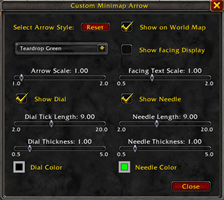
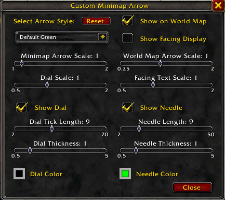
feat: update version to 2.1.0, enhance world map support, and improve configuration options

diff --git a/README.md b/README.md
@@ -19,15 +19,14 @@ Take full control of your minimap arrow! Stylish designs, custom vector dial & n
 ## Features
 - Always-On-Top Arrow Rendering – High-priority overlay layering and frame depth ensure your custom minimap arrow always appears above other minimap elements and addons.
 - Smart Dungeon & Rotate Minimap Support – Automatically adapts to the “Rotate Minimap” setting. In dungeons the arrow stays correctly oriented and scaled; outdoors it falls back to the engine’s native behavior when needed.
-- Fully Customizable Vector Dial & Needle – Programmatically drawn 36-tick dial (major ticks every 30°) and a dynamic rotating needle that tracks your heading in real time. Both scale and move with the minimap and can be shown or hidden independently.
-- Precise Scale Controls – Independently adjust the size of the minimap arrow and the facing-text display.
-- High-Resolution Arrow Art – All arrow textures are now 128×128. The default-style arrows are high-resolution variations of WoW: Forever’s default minimap arrow, recreated as addon art.
-- Custom Arrow Styles – Choose from stylized designs, high-visibility colors, and Okabe-Ito palette colorblind-safe arrows.
-- WoW: Forever Overlay Compatibility – WoW: Forever does not allow addons to hide its native minimap marker, so custom arrows are drawn over it. The Drip, Sword, and Dagger designs have been adjusted to cover the native marker; Sword arrows are thicker to ensure coverage.
-- Facing Display – Movable compass-style frame that shows your exact facing direction in degrees, with its own scale and reset option.
-- World Map Support - Added a custom `WorldMapArrowFrame` that renders above all other UI elements. Automatically hides the default Blizzard player arrow. Robust handling for dungeons/instances and full cross-version compatibility (Classic through Retail).  
-- Respects Arrow Scale setting and player facing.
-- Configuration Panel – Open with /cma. Intuitive layout gives you direct control over arrow style, facing text, dial/needle visibility, tick length & thickness, needle length & thickness, and live color swatches (with clear borders for dark colors). Supports both modern and classic color pickers.
+- Fully Customizable Vector Dial & Needle – Programmatically drawn 36-tick dial and a dynamic rotating needle that tracks your heading in real time. Both scale and move with the minimap and can be shown or hidden independently.
+- Precise Scale Controls – Independently adjust the size of the minimap arrow, world map arrow, dial overlay, and facing-text display.
+- High-Resolution Arrow Art – All arrow textures are now 128×128. default-style arrows high-resolution variations WoW: Forever’s default minimap arrow, recreated addon art.
+- Custom Arrow Styles – Choose stylized designs, high-visibility colors, and Okabe-Ito palette colorblind-safe arrows.
+- WoW: Forever Overlay Compatibility – WoW: Forever does not allow addons hide native minimap marker, so custom arrows drawn over it. Drip, Sword, and Dagger designs adjusted to cover native marker.
+- Facing Display – Movable compass-style frame shows exact facing direction in degrees, its own scale and reset option.
+- World Map Support – Custom `WorldMapArrowFrame` renders above all other UI elements, Questie pins, and OpenMap addon pins. independent world map scale slider. Automatically hides the default Blizzard player arrow. Enabled by default.
+- Configuration Panel – Open /cma. Intuitive layout gives direct control over arrow style, world map toggle & scale, facing text, dial scale, dial/needle visibility, tick length & thickness, needle length & thickness, and live color swatches. Supports both modern and classic color pickers.
 
 ## Installation
 1. Download the addon.
@@ -36,12 +35,12 @@ Take full control of your minimap arrow! Stylish designs, custom vector dial & n
 
 ## Usage
 - Type `/cma` to open the expanded settings panel.
-- Adjust Arrow Scale and Facing Text Scale with the sliders.
+- Adjust Minimap Arrow Scale, World Map Arrow Scale, Dial Scale, and Facing Text Scale with the sliders.
 - Select an arrow style from the dropdown.
 - Toggle the Facing Display on/off and drag it anywhere on screen; use the Reset Facing button to return it to default.
 - Independently show or hide the Dial and Needle overlays.
 - Fine-tune Dial Tick Length, Dial Thickness, Needle Length, and Needle Thickness.
-- Click the color swatches to pick any color for the dial or needle (live preview included).
+- Click the color swatches to pick any color for the dial or needle.
 
 ## Community
 

diff --git a/AGENTS.md b/AGENTS.md
@@ -1,0 +1,30 @@
+# Custom Minimap Arrow
+
+WoW addon replacing the default minimap and world-map player arrow. Single Lua file,
+no libraries, no build step.
+
+## Layout
+
+- `CustomMinimapArrow/CustomMinimapArrow.toc` — metadata, interface versions, saved
+  variables (`CustomMinimapArrowDB`)
+- `CustomMinimapArrow/CustomMinimapArrow.lua` — entire addon (~1050 lines)
+- `CustomMinimapArrow/Arrows/*.tga` — 128×128 arrow styles, selected by name
+- `CustomMinimapArrow/UI/`, `icon.tga` — panel art
+- `Artwork/`, `imgs/` — source art and store screenshots (not shipped)
+- `README*.md`, `CHANGELOG*.md` — root and per-store variants; keep them in sync
+- `.gitignore` excludes the docs variants, `Artwork/`, and release zips
+
+## Work
+
+- Use the `wow-addon` skill and the `wow` MCP server to verify every Blizzard API,
+  event, and enum; check both retail and forever (WoW: Forever) for shared code.
+  Classic-era clients (Mists/Cata/Wrath/Classic in the TOC) are not in the dataset —
+  guard at runtime and say it is unverified.
+- New arrow style: drop a 128×128 TGA in `Arrows/`, add the name to the arrow list
+  used by the selector, display name = file name without extension.
+- Keep the `## Interface` / `## Interface-<Flavor>` list and `## Version` in the TOC as
+  the release source of truth; add a CHANGELOG entry per version.
+- Supported behavior lives entirely in Lua 5.1; guard APIs that are not on all clients
+  (`if Minimap and Minimap.SetPlayerTexture then ... end`, `if C_Map and ... then`).
+- WoW: Forever cannot hide its native minimap marker; custom arrows overlay it. Do not
+  promise replacement there.

diff --git a/CHANGELOG.md b/CHANGELOG.md
@@ -1,5 +1,17 @@
 # Changelog
 
+## 2.1.0
+
+- Added dedicated World Map Arrow Scale slider (0.25 to 2.0).
+- Added Dial Scale slider (0.5 to 2.0) to scale the vector dial and needle together.
+- Expanded Needle Length slider range from 2 to 50.
+- "Show on World Map" is now enabled by default on new installs and settings reset.
+- Fixed world map arrow layering over Questie quest icons on the default world map.
+- Added full OpenMap addon compatibility: custom arrow renders above OpenMap flight master wyverns and map pins.
+- Fixed OpenMap coordinate positioning, zoom drift, and animation jitter during zoom and pan.
+- Added viewport bounds clipping to keep the custom arrow inside the visible world map container.
+- Improved configuration panel spacing and layout.
+
 ## 2.0.5
 
 - fixed a bug in color pickers appearing behind config window.
